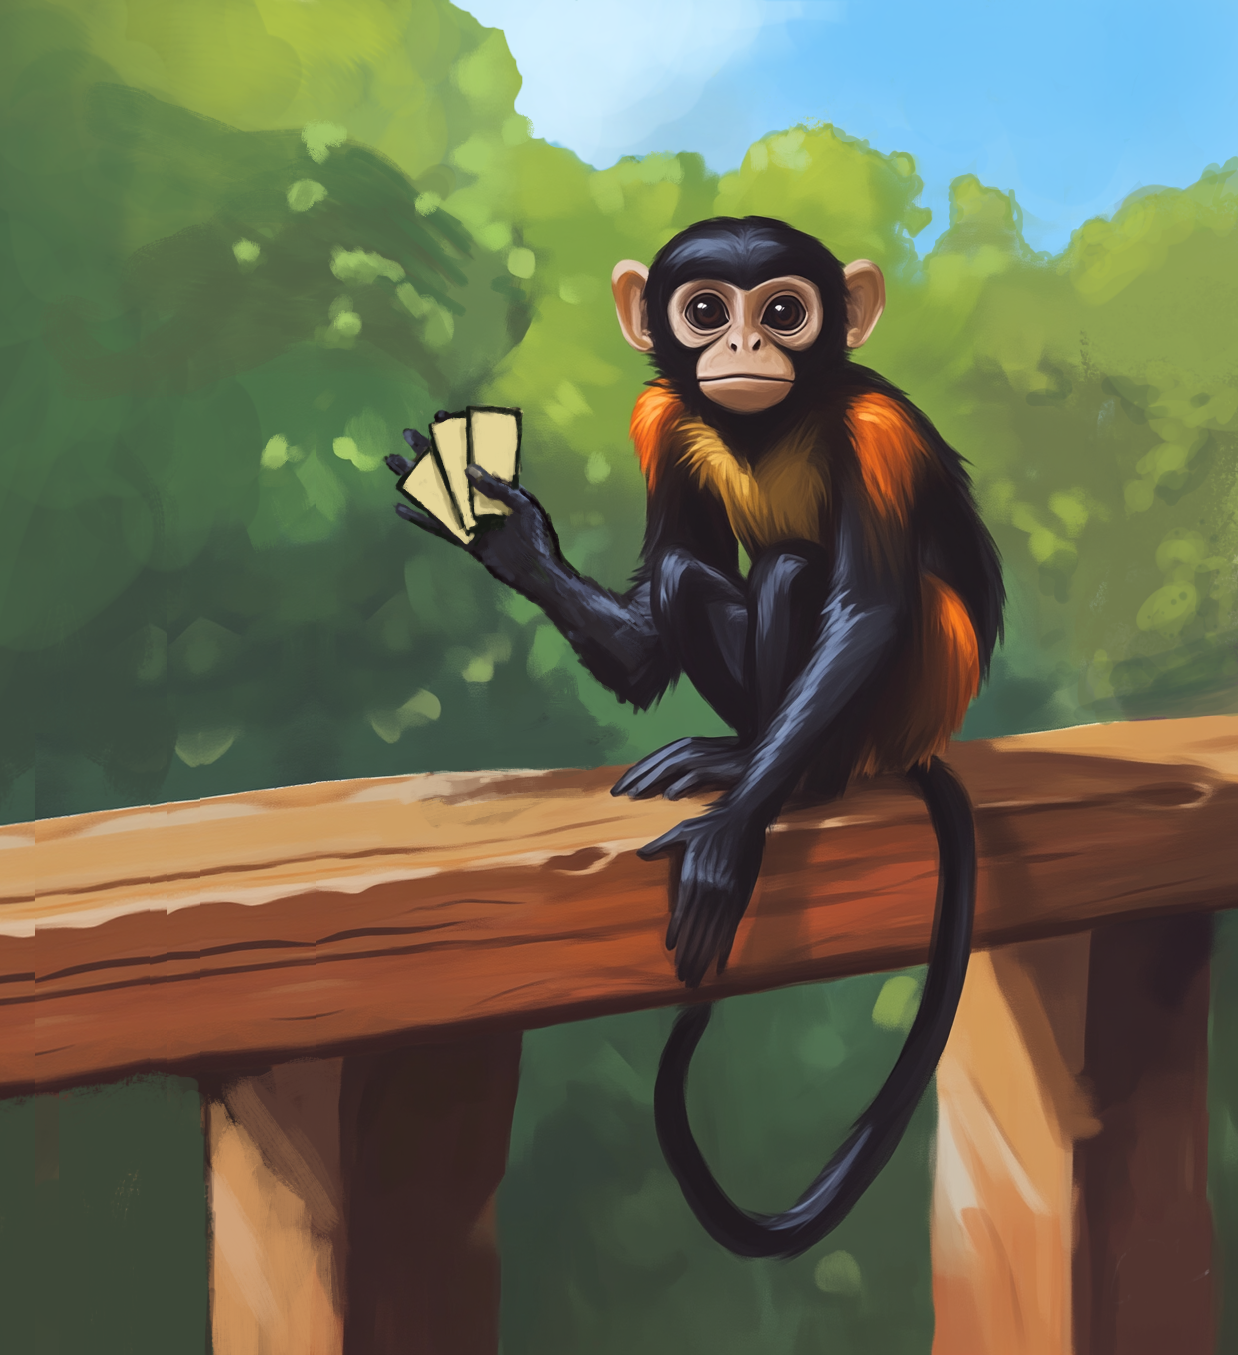
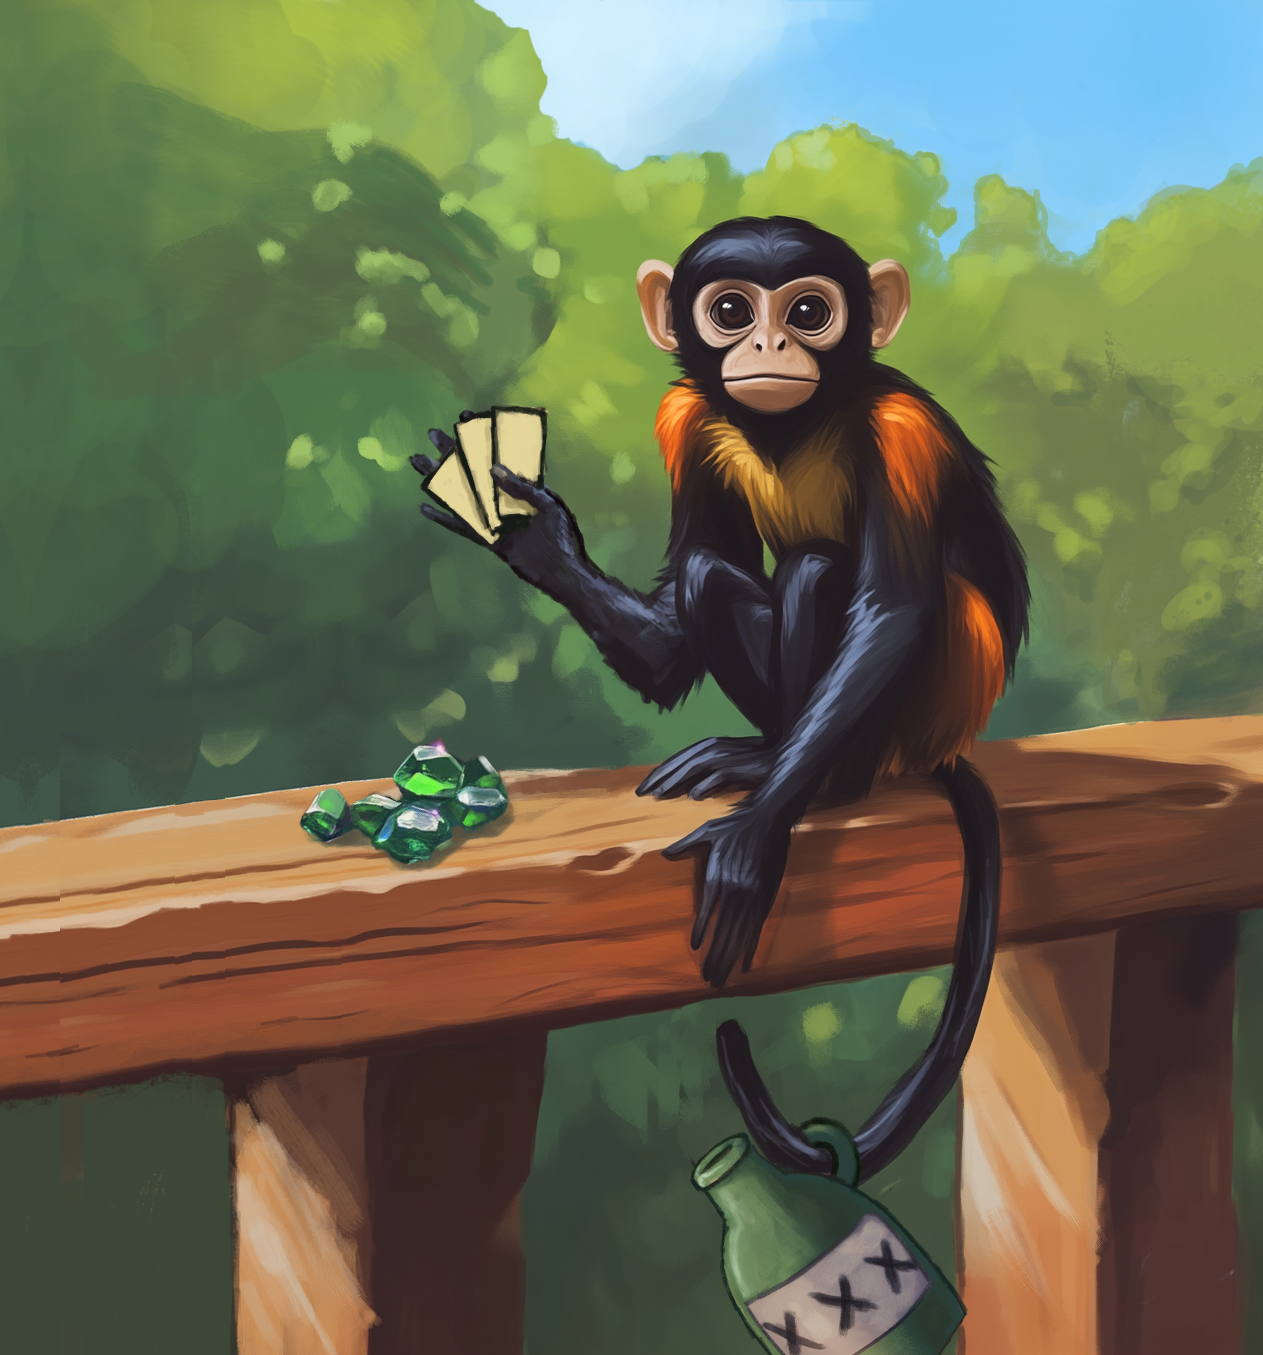
Improved sidekick

diff --git a/deckhand2/2.css b/deckhand2/2.css
@@ -528,7 +528,7 @@ img {
     width: 69.24972972972974mm;
     height: 94.2mm;
     background-image: url(img/mpc-dark.png);
-    /* background-image: url(img/mpc.png); */
+    background-image: url(img/mpc.png);
     background-size: cover;
     z-index: 100;
 }

diff --git a/deckhand2/cards.en.js b/deckhand2/cards.en.js
@@ -616,7 +616,7 @@ var cards = [
     },
 
     {
-        "title": "Sidekick",
+        "title": "Bartering Helmsman",
         "discard": ['r'],
         "cost": ['e', 'r', 'p'],
         "img": "cards/sidekick.png",
